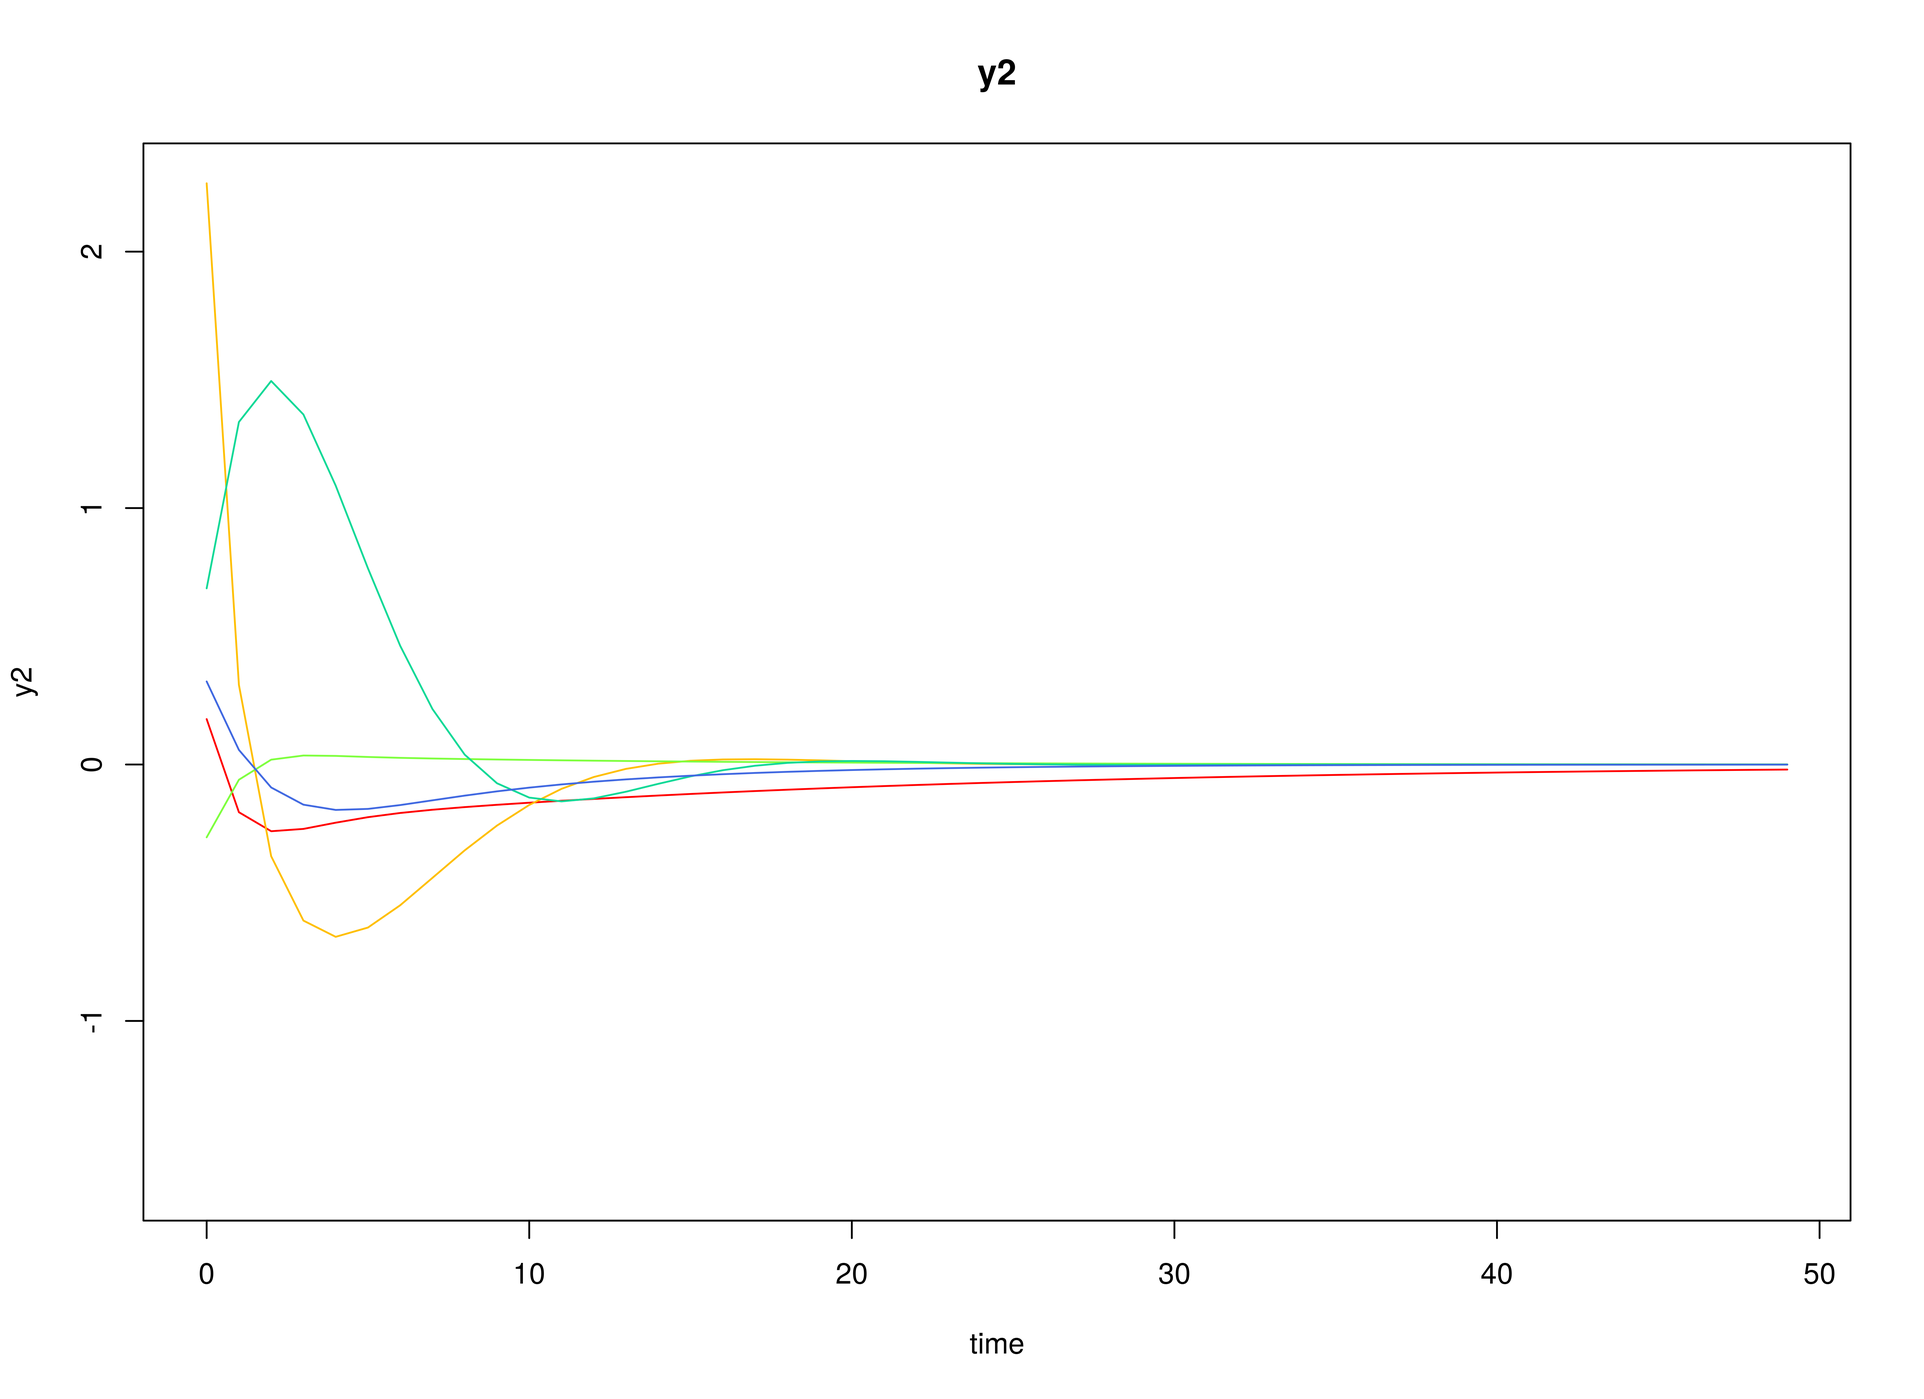
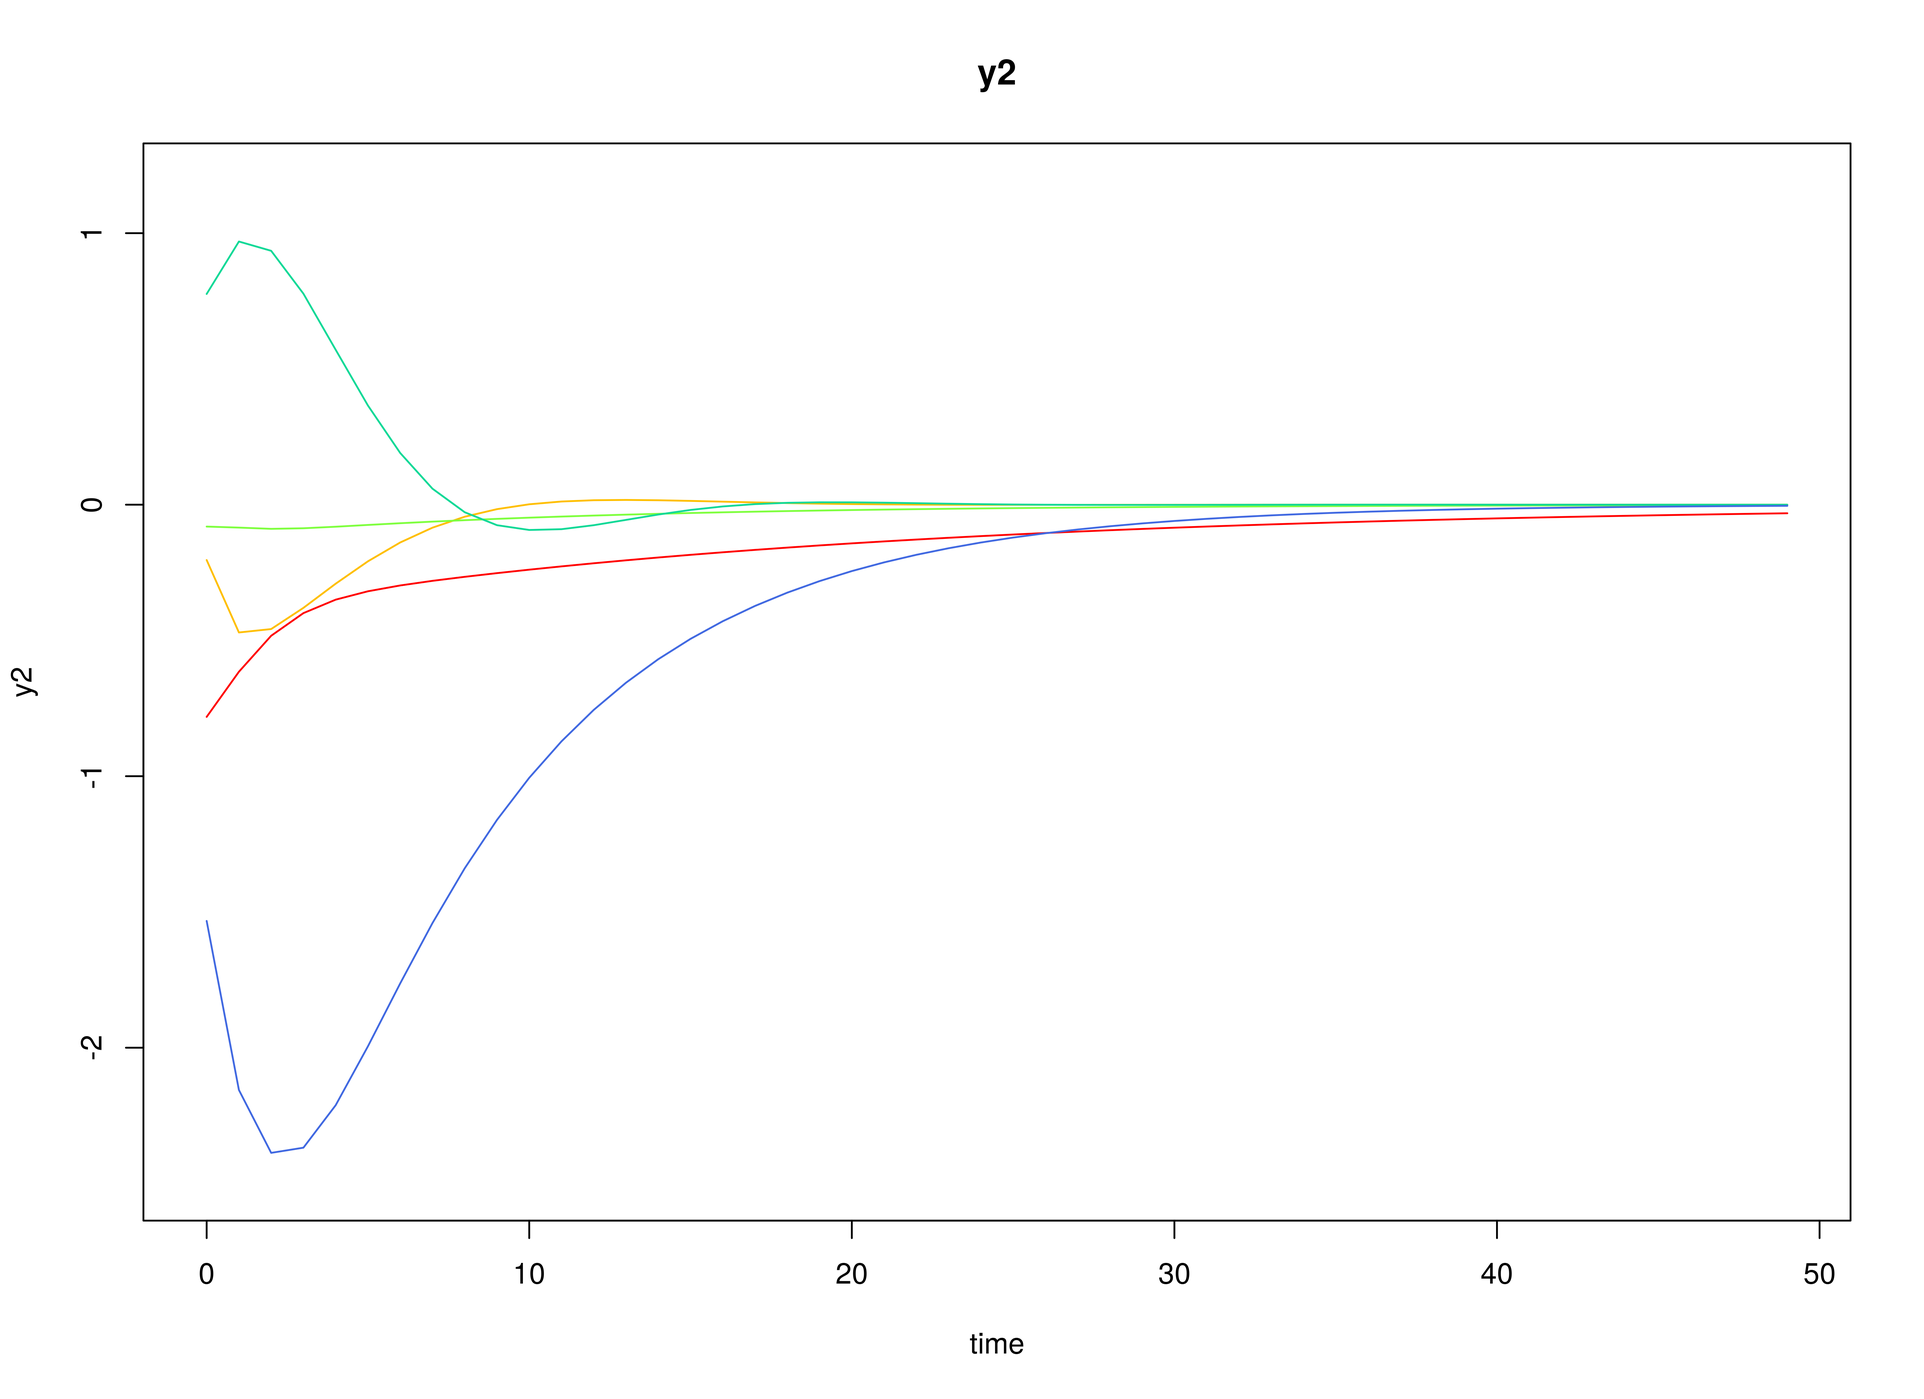
Deploying to pkgdown from @ jeksterslab/fitDTVARMx@f4549cccbe9cbe995ce89f666b82dcc1cacfb450 🚀

diff --git a/articles/fit-dt-var.html b/articles/fit-dt-var.html
@@ -59,7 +59,7 @@
                         <h4 data-toc-skip class="author">Ivan Jacob
 Agaloos Pesigan</h4>
             
-            <h4 data-toc-skip class="date">2024-08-08</h4>
+            <h4 data-toc-skip class="date">2024-08-11</h4>
       
       <small class="dont-index">Source: <a href="https://github.com/jeksterslab/fitDTVARMx/blob/main/vignettes/fit-dt-var.Rmd"><code>vignettes/fit-dt-var.Rmd</code></a></small>
       <div class="d-none name"><code>fit-dt-var.Rmd</code></div>
@@ -166,9 +166,9 @@ the covariance matrix of
 <h3 id="notation">Notation<a class="anchor" aria-label="anchor" href="#notation"></a>
 </h3>
 <p>Let
-<math display="inline" xmlns="http://www.w3.org/1998/Math/MathML"><semantics><mrow><mi>t</mi><mo>=</mo><mn>1000</mn></mrow><annotation encoding="application/x-tex">t = 1000</annotation></semantics></math>
+<math display="inline" xmlns="http://www.w3.org/1998/Math/MathML"><semantics><mrow><mi>t</mi><mo>=</mo><mn>500</mn></mrow><annotation encoding="application/x-tex">t = 500</annotation></semantics></math>
 be the number of time points and
-<math display="inline" xmlns="http://www.w3.org/1998/Math/MathML"><semantics><mrow><mi>n</mi><mo>=</mo><mn>100</mn></mrow><annotation encoding="application/x-tex">n = 100</annotation></semantics></math>
+<math display="inline" xmlns="http://www.w3.org/1998/Math/MathML"><semantics><mrow><mi>n</mi><mo>=</mo><mn>10</mn></mrow><annotation encoding="application/x-tex">n = 10</annotation></semantics></math>
 be the number of individuals.</p>
 <p>Let the initial condition
 <math display="inline" xmlns="http://www.w3.org/1998/Math/MathML"><semantics><msub><mi>𝛈</mi><mn>0</mn></msub><annotation encoding="application/x-tex">\boldsymbol{\eta}_{0}</annotation></semantics></math>
@@ -246,9 +246,9 @@ be given by</p>
 </h3>
 <div class="sourceCode" id="cb1"><pre class="downlit sourceCode r">
 <code class="sourceCode R"><span><span class="va">n</span></span>
-<span><span class="co">#&gt; [1] 100</span></span>
+<span><span class="co">#&gt; [1] 10</span></span>
 <span><span class="va">time</span></span>
-<span><span class="co">#&gt; [1] 1000</span></span>
+<span><span class="co">#&gt; [1] 500</span></span>
 <span><span class="va">mu0</span></span>
 <span><span class="co">#&gt; [1] 0 0 0</span></span>
 <span><span class="va">sigma0</span></span>
@@ -330,29 +330,29 @@ Initial Condition)<a class="anchor" aria-label="anchor" href="#visualizing-the-d
 <span><span class="co">#&gt; Beginning initial fit attempt</span></span>
 <span><span class="co">#&gt; Running DTVAR with 12 parameters</span></span>
 <span><span class="co">#&gt; </span></span>
-<span><span class="co">#&gt;  Lowest minimum so far:  161147.776665735</span></span>
+<span><span class="co">#&gt;  Lowest minimum so far:  8131.32124288269</span></span>
 <span><span class="co">#&gt; </span></span>
 <span><span class="co">#&gt; Solution found</span></span></code></pre></div>
 <pre><code><span><span class="co">#&gt; </span></span>
-<span><span class="co">#&gt;  Solution found!  Final fit=161147.78 (started at 559956.91)  (1 attempt(s): 1 valid, 0 errors)</span></span>
+<span><span class="co">#&gt;  Solution found!  Final fit=8131.3212 (started at 28664.244)  (1 attempt(s): 1 valid, 0 errors)</span></span>
 <span><span class="co">#&gt;  Start values from best fit:</span></span>
-<span><span class="co">#&gt; 0.699100963316375,0.498053073559555,-0.100937447224889,-0.0015600327617861,0.602705790036225,0.401870024126801,0.00490614070660785,-0.00383247105431546,0.498874252399096,0.100182502728935,0.0996918740870773,0.0998830418803938</span></span>
+<span><span class="co">#&gt; 0.695647387647896,0.482248204997181,-0.10912047989155,0.0052297470822293,0.627079168483468,0.40990663977437,0.00419066259945524,-0.0185706629628513,0.502514693232057,0.099202398774487,0.100570614025979,0.100196866786614</span></span>
 <span><span class="co">#&gt; Summary of DTVAR </span></span>
 <span><span class="co">#&gt;  </span></span>
 <span><span class="co">#&gt; free parameters:</span></span>
-<span><span class="co">#&gt;       name       matrix  row  col     Estimate    Std.Error A</span></span>
-<span><span class="co">#&gt; 1  beta_11 DTVAR_1.beta eta1 eta1  0.699100963 0.0025306502  </span></span>
-<span><span class="co">#&gt; 2  beta_21 DTVAR_1.beta eta2 eta1  0.498053074 0.0025316947  </span></span>
-<span><span class="co">#&gt; 3  beta_31 DTVAR_1.beta eta3 eta1 -0.100937447 0.0025346201  </span></span>
-<span><span class="co">#&gt; 4  beta_12 DTVAR_1.beta eta1 eta2 -0.001560033 0.0021327509  </span></span>
-<span><span class="co">#&gt; 5  beta_22 DTVAR_1.beta eta2 eta2  0.602705790 0.0021293455  </span></span>
-<span><span class="co">#&gt; 6  beta_32 DTVAR_1.beta eta3 eta2  0.401870024 0.0021363674  </span></span>
-<span><span class="co">#&gt; 7  beta_13 DTVAR_1.beta eta1 eta3  0.004906141 0.0021802741  </span></span>
-<span><span class="co">#&gt; 8  beta_23 DTVAR_1.beta eta2 eta3 -0.003832471 0.0021741345  </span></span>
-<span><span class="co">#&gt; 9  beta_33 DTVAR_1.beta eta3 eta3  0.498874252 0.0021759606  </span></span>
-<span><span class="co">#&gt; 10  psi_11  DTVAR_1.psi eta1 eta1  0.100182503 0.0004485499  </span></span>
-<span><span class="co">#&gt; 11  psi_22  DTVAR_1.psi eta2 eta2  0.099691874 0.0004463423  </span></span>
-<span><span class="co">#&gt; 12  psi_33  DTVAR_1.psi eta3 eta3  0.099883042 0.0004471061  </span></span>
+<span><span class="co">#&gt;       name       matrix  row  col     Estimate   Std.Error A</span></span>
+<span><span class="co">#&gt; 1  beta_11 DTVAR_1.beta eta1 eta1  0.695647388 0.011135549  </span></span>
+<span><span class="co">#&gt; 2  beta_21 DTVAR_1.beta eta2 eta1  0.482248205 0.011300497  </span></span>
+<span><span class="co">#&gt; 3  beta_31 DTVAR_1.beta eta3 eta1 -0.109120480 0.011278922  </span></span>
+<span><span class="co">#&gt; 4  beta_12 DTVAR_1.beta eta1 eta2  0.005229747 0.009174458  </span></span>
+<span><span class="co">#&gt; 5  beta_22 DTVAR_1.beta eta2 eta2  0.627079168 0.009256319  </span></span>
+<span><span class="co">#&gt; 6  beta_32 DTVAR_1.beta eta3 eta2  0.409906640 0.009317881  </span></span>
+<span><span class="co">#&gt; 7  beta_13 DTVAR_1.beta eta1 eta3  0.004190663 0.009422858  </span></span>
+<span><span class="co">#&gt; 8  beta_23 DTVAR_1.beta eta2 eta3 -0.018570663 0.009479058  </span></span>
+<span><span class="co">#&gt; 9  beta_33 DTVAR_1.beta eta3 eta3  0.502514693 0.009458129  </span></span>
+<span><span class="co">#&gt; 10  psi_11  DTVAR_1.psi eta1 eta1  0.099202399 0.001990934  </span></span>
+<span><span class="co">#&gt; 11  psi_22  DTVAR_1.psi eta2 eta2  0.100570614 0.002019620  </span></span>
+<span><span class="co">#&gt; 12  psi_33  DTVAR_1.psi eta3 eta3  0.100196867 0.002008890  </span></span>
 <span><span class="co">#&gt;                  lbound ubound</span></span>
 <span><span class="co">#&gt; 1                             </span></span>
 <span><span class="co">#&gt; 2                             </span></span>
@@ -369,22 +369,22 @@ Initial Condition)<a class="anchor" aria-label="anchor" href="#visualizing-the-d
 <span><span class="co">#&gt; </span></span>
 <span><span class="co">#&gt; Model Statistics: </span></span>
 <span><span class="co">#&gt;                |  Parameters  |  Degrees of Freedom  |  Fit (-2lnL units)</span></span>
-<span><span class="co">#&gt;        Model:             12                 299988              161147.8</span></span>
+<span><span class="co">#&gt;        Model:             12                  14988              8131.321</span></span>
 <span><span class="co">#&gt;    Saturated:             NA                     NA                    NA</span></span>
 <span><span class="co">#&gt; Independence:             NA                     NA                    NA</span></span>
-<span><span class="co">#&gt; Number of observations/statistics: 1e+05/3e+05</span></span>
+<span><span class="co">#&gt; Number of observations/statistics: 5000/15000</span></span>
 <span><span class="co">#&gt; </span></span>
 <span><span class="co">#&gt; Information Criteria: </span></span>
 <span><span class="co">#&gt;       |  df Penalty  |  Parameters Penalty  |  Sample-Size Adjusted</span></span>
-<span><span class="co">#&gt; AIC:      -438828.2               161171.8                 161171.8</span></span>
-<span><span class="co">#&gt; BIC:     -3292591.7               161285.9                 161247.8</span></span>
+<span><span class="co">#&gt; AIC:      -21844.68               8155.321                 8155.384</span></span>
+<span><span class="co">#&gt; BIC:     -119524.37               8233.528                 8195.396</span></span>
 <span><span class="co">#&gt; CFI: NA </span></span>
 <span><span class="co">#&gt; TLI: 1   (also known as NNFI) </span></span>
 <span><span class="co">#&gt; RMSEA:  0  [95% CI (NA, NA)]</span></span>
 <span><span class="co">#&gt; Prob(RMSEA &lt;= 0.05): NA</span></span>
 <span><span class="co">#&gt; To get additional fit indices, see help(mxRefModels)</span></span>
-<span><span class="co">#&gt; timestamp: 2024-08-08 06:17:42 </span></span>
-<span><span class="co">#&gt; Wall clock time: 65.82499 secs </span></span>
+<span><span class="co">#&gt; timestamp: 2024-08-11 21:48:14 </span></span>
+<span><span class="co">#&gt; Wall clock time: 3.411548 secs </span></span>
 <span><span class="co">#&gt; optimizer:  SLSQP </span></span>
 <span><span class="co">#&gt; OpenMx version number: 2.21.11 </span></span>
 <span><span class="co">#&gt; Need help?  See help(mxSummary)</span></span></code></pre>

diff --git a/articles/fit-dt-var-id.html b/articles/fit-dt-var-id.html
@@ -59,7 +59,7 @@
                         <h4 data-toc-skip class="author">Ivan Jacob
 Agaloos Pesigan</h4>
             
-            <h4 data-toc-skip class="date">2024-08-08</h4>
+            <h4 data-toc-skip class="date">2024-08-11</h4>
       
       <small class="dont-index">Source: <a href="https://github.com/jeksterslab/fitDTVARMx/blob/main/vignettes/fit-dt-var-id.Rmd"><code>vignettes/fit-dt-var-id.Rmd</code></a></small>
       <div class="d-none name"><code>fit-dt-var-id.Rmd</code></div>
@@ -166,9 +166,9 @@ the covariance matrix of
 <h3 id="notation">Notation<a class="anchor" aria-label="anchor" href="#notation"></a>
 </h3>
 <p>Let
-<math display="inline" xmlns="http://www.w3.org/1998/Math/MathML"><semantics><mrow><mi>t</mi><mo>=</mo><mn>1000</mn></mrow><annotation encoding="application/x-tex">t = 1000</annotation></semantics></math>
+<math display="inline" xmlns="http://www.w3.org/1998/Math/MathML"><semantics><mrow><mi>t</mi><mo>=</mo><mn>500</mn></mrow><annotation encoding="application/x-tex">t = 500</annotation></semantics></math>
 be the number of time points and
-<math display="inline" xmlns="http://www.w3.org/1998/Math/MathML"><semantics><mrow><mi>n</mi><mo>=</mo><mn>100</mn></mrow><annotation encoding="application/x-tex">n = 100</annotation></semantics></math>
+<math display="inline" xmlns="http://www.w3.org/1998/Math/MathML"><semantics><mrow><mi>n</mi><mo>=</mo><mn>10</mn></mrow><annotation encoding="application/x-tex">n = 10</annotation></semantics></math>
 be the number of individuals.</p>
 <p>Let the initial condition
 <math display="inline" xmlns="http://www.w3.org/1998/Math/MathML"><semantics><msub><mi>𝛈</mi><mn>0</mn></msub><annotation encoding="application/x-tex">\boldsymbol{\eta}_{0}</annotation></semantics></math>
@@ -264,9 +264,9 @@ be given by</p>
 </h3>
 <div class="sourceCode" id="cb1"><pre class="downlit sourceCode r">
 <code class="sourceCode R"><span><span class="va">n</span></span>
-<span><span class="co">#&gt; [1] 100</span></span>
+<span><span class="co">#&gt; [1] 10</span></span>
 <span><span class="va">time</span></span>
-<span><span class="co">#&gt; [1] 1000</span></span>
+<span><span class="co">#&gt; [1] 500</span></span>
 <span><span class="va">mu0</span></span>
 <span><span class="co">#&gt; [[1]]</span></span>
 <span><span class="co">#&gt; [1] 0 0 0</span></span>
@@ -326,12 +326,12 @@ Initial Condition)<a class="anchor" aria-label="anchor" href="#visualizing-the-d
 <span><span class="va">data</span> <span class="op">&lt;-</span> <span class="fu"><a href="https://rdrr.io/r/base/as.data.frame.html" class="external-link">as.data.frame</a></span><span class="op">(</span><span class="va">sim</span><span class="op">)</span></span>
 <span><span class="fu"><a href="https://rdrr.io/r/utils/head.html" class="external-link">head</a></span><span class="op">(</span><span class="va">data</span><span class="op">)</span></span>
 <span><span class="co">#&gt;   id time          y1         y2         y3</span></span>
-<span><span class="co">#&gt; 1  1    0 -0.49056396 -0.3253768  1.0523744</span></span>
-<span><span class="co">#&gt; 2  1    1  0.14521966 -0.7006281  0.2457437</span></span>
-<span><span class="co">#&gt; 3  1    2 -0.07512888 -0.9727582 -0.3760374</span></span>
-<span><span class="co">#&gt; 4  1    3 -0.08732419 -1.0571249 -0.4137884</span></span>
-<span><span class="co">#&gt; 5  1    4  0.08986589 -1.0002725 -0.1981683</span></span>
-<span><span class="co">#&gt; 6  1    5 -0.06217825 -0.5922683 -0.4385412</span></span>
+<span><span class="co">#&gt; 1  1    0 -0.01667824  0.3471271 -0.5695179</span></span>
+<span><span class="co">#&gt; 2  1    1  0.05129435  0.2859970 -0.2306270</span></span>
+<span><span class="co">#&gt; 3  1    2 -0.33999076  0.6114834 -0.2472465</span></span>
+<span><span class="co">#&gt; 4  1    3 -0.01661439 -0.2579420  0.2733639</span></span>
+<span><span class="co">#&gt; 5  1    4 -0.50080900  0.2572493  0.1186636</span></span>
+<span><span class="co">#&gt; 6  1    5 -0.19775105  0.1878050  0.3271472</span></span>
 <span><span class="fu"><a href="https://rdrr.io/r/graphics/plot.default.html" class="external-link">plot</a></span><span class="op">(</span><span class="va">sim</span><span class="op">)</span></span></code></pre></div>
 <p><img src="fig-vignettes-fit-dt-var-id-mx-error-1.png" width="3300"><img src="fig-vignettes-fit-dt-var-id-mx-error-2.png" width="3300"><img src="fig-vignettes-fit-dt-var-id-mx-error-3.png" width="3300"></p>
 </div>
@@ -352,10 +352,10 @@ individual
 <span><span class="op">)</span></span>
 <span><span class="co">#&gt; </span></span>
 <span><span class="co">#&gt; Means of the estimated paramaters per individual.</span></span>
-<span><span class="co">#&gt;      beta_11      beta_21      beta_31      beta_12      beta_22      beta_32 </span></span>
-<span><span class="co">#&gt;  0.681708156  0.490648463 -0.095598357 -0.004552304  0.585829938  0.385393184 </span></span>
-<span><span class="co">#&gt;      beta_13      beta_23      beta_33       psi_11       psi_22       psi_33 </span></span>
-<span><span class="co">#&gt;  0.009392707 -0.012720822  0.492579348  0.099902461  0.099408893  0.099638018</span></span></code></pre></div>
+<span><span class="co">#&gt;     beta_11     beta_21     beta_31     beta_12     beta_22     beta_32 </span></span>
+<span><span class="co">#&gt;  0.65993097  0.50030159 -0.06447561  0.04378504  0.64014151  0.43853603 </span></span>
+<span><span class="co">#&gt;     beta_13     beta_23     beta_33      psi_11      psi_22      psi_33 </span></span>
+<span><span class="co">#&gt; -0.03958630  0.01326219  0.49408009  0.10016808  0.09849587  0.09896985</span></span></code></pre></div>
 </div>
 <div class="section level2 unnumbered">
 <h2 class="unnumbered" id="references">References<a class="anchor" aria-label="anchor" href="#references"></a>

diff --git a/articles/session.html b/articles/session.html
@@ -524,7 +524,7 @@ Agaloos Pesigan</h4>
 <span><span class="co">#&gt; Stepping:                           1</span></span>
 <span><span class="co">#&gt; CPU max MHz:                        2900.0000</span></span>
 <span><span class="co">#&gt; CPU min MHz:                        1200.0000</span></span>
-<span><span class="co">#&gt; BogoMIPS:                           4389.77</span></span>
+<span><span class="co">#&gt; BogoMIPS:                           4389.88</span></span>
 <span><span class="co">#&gt; Flags:                              fpu vme de pse tsc msr pae mce cx8 apic sep mtrr pge mca cmov pat pse36 clflush dts acpi mmx fxsr sse sse2 ss ht tm pbe syscall nx pdpe1gb rdtscp lm constant_tsc arch_perfmon pebs bts rep_good nopl xtopology nonstop_tsc cpuid aperfmperf pni pclmulqdq dtes64 monitor ds_cpl smx est tm2 ssse3 sdbg fma cx16 xtpr pdcm pcid dca sse4_1 sse4_2 x2apic movbe popcnt tsc_deadline_timer aes xsave avx f16c rdrand lahf_lm abm 3dnowprefetch cpuid_fault epb cat_l3 cdp_l3 invpcid_single pti ssbd ibrs ibpb stibp fsgsbase tsc_adjust bmi1 hle avx2 smep bmi2 erms invpcid rtm cqm rdt_a rdseed adx smap intel_pt xsaveopt cqm_llc cqm_occup_llc cqm_mbm_total cqm_mbm_local dtherm ida arat pln pts md_clear flush_l1d</span></span>
 <span><span class="co">#&gt; L1d cache:                          768 KiB (24 instances)</span></span>
 <span><span class="co">#&gt; L1i cache:                          768 KiB (24 instances)</span></span>
@@ -551,9 +551,9 @@ Agaloos Pesigan</h4>
 <h2 id="memory">Memory<a class="anchor" aria-label="anchor" href="#memory"></a>
 </h2>
 <pre><code><span><span class="co">#&gt;                total        used        free      shared  buff/cache   available</span></span>
-<span><span class="co">#&gt; Mem:           125Gi       3.2Gi        26Gi       4.7Gi        95Gi       116Gi</span></span>
+<span><span class="co">#&gt; Mem:           125Gi       3.0Gi        63Gi       4.7Gi        58Gi       117Gi</span></span>
 <span><span class="co">#&gt; Swap:             0B          0B          0B</span></span>
-<span><span class="co">#&gt; Total:         125Gi       3.2Gi        26Gi</span></span></code></pre>
+<span><span class="co">#&gt; Total:         125Gi       3.0Gi        63Gi</span></span></code></pre>
 </div>
   </main><aside class="col-md-3"><nav id="toc" aria-label="Table of contents"><h2>On this page</h2>
     </nav></aside>

diff --git a/index.html b/index.html
@@ -54,7 +54,7 @@
   <main id="main" class="col-md-9"><div class="section level1">
 <div class="page-header"><h1 id="fitdtvarmx">fitDTVARMx<a class="anchor" aria-label="anchor" href="#fitdtvarmx"></a>
 </h1></div>
-<p>Ivan Jacob Agaloos Pesigan 2024-08-08</p>
+<p>Ivan Jacob Agaloos Pesigan 2024-08-11</p>
 <!-- README.md is generated from .setup/readme/README.Rmd. Please edit that file -->
 <!-- badges: start -->
 
